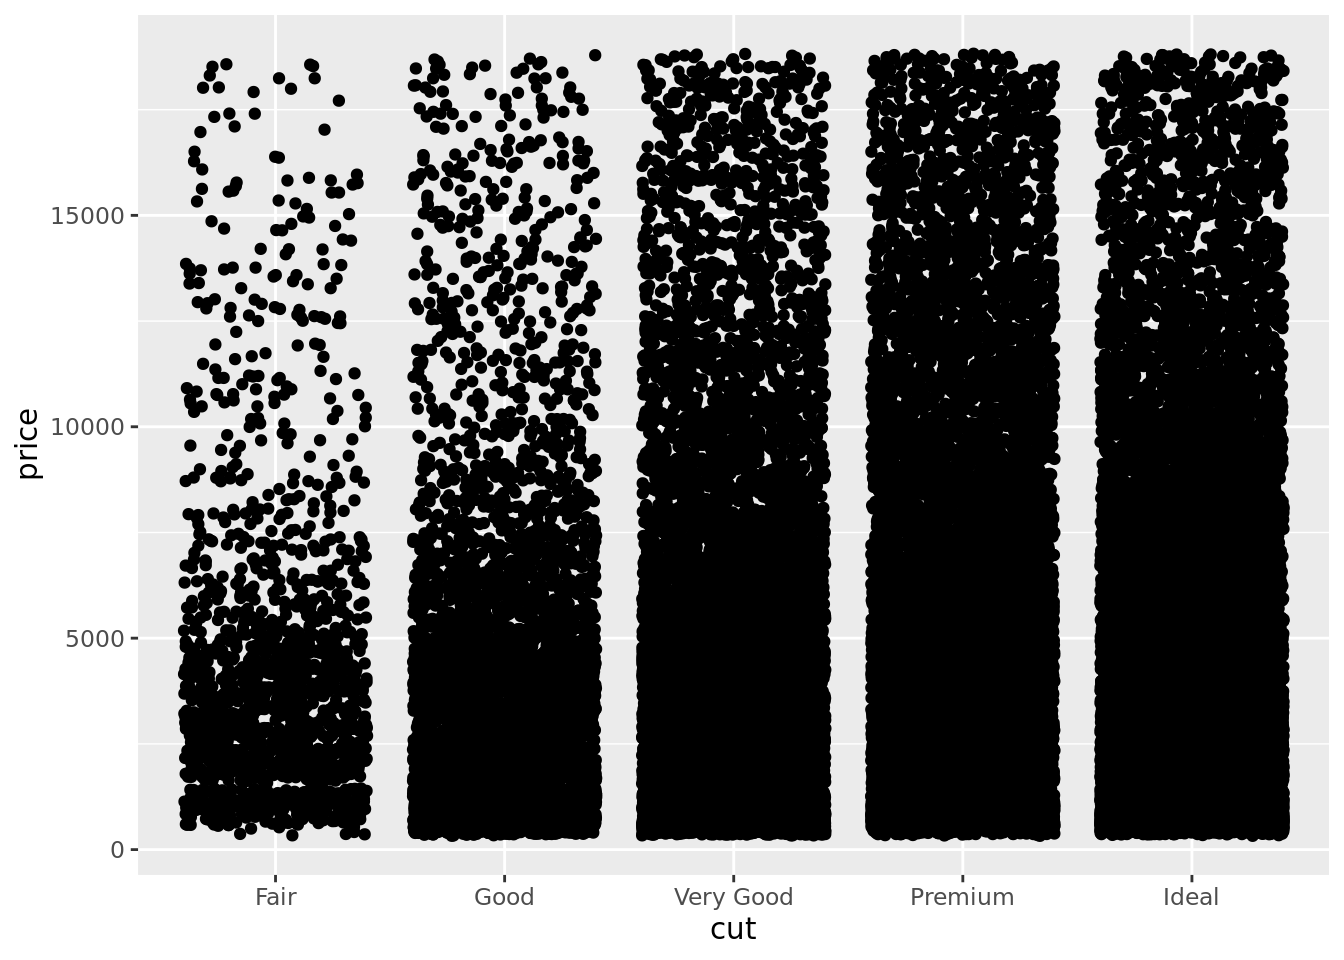
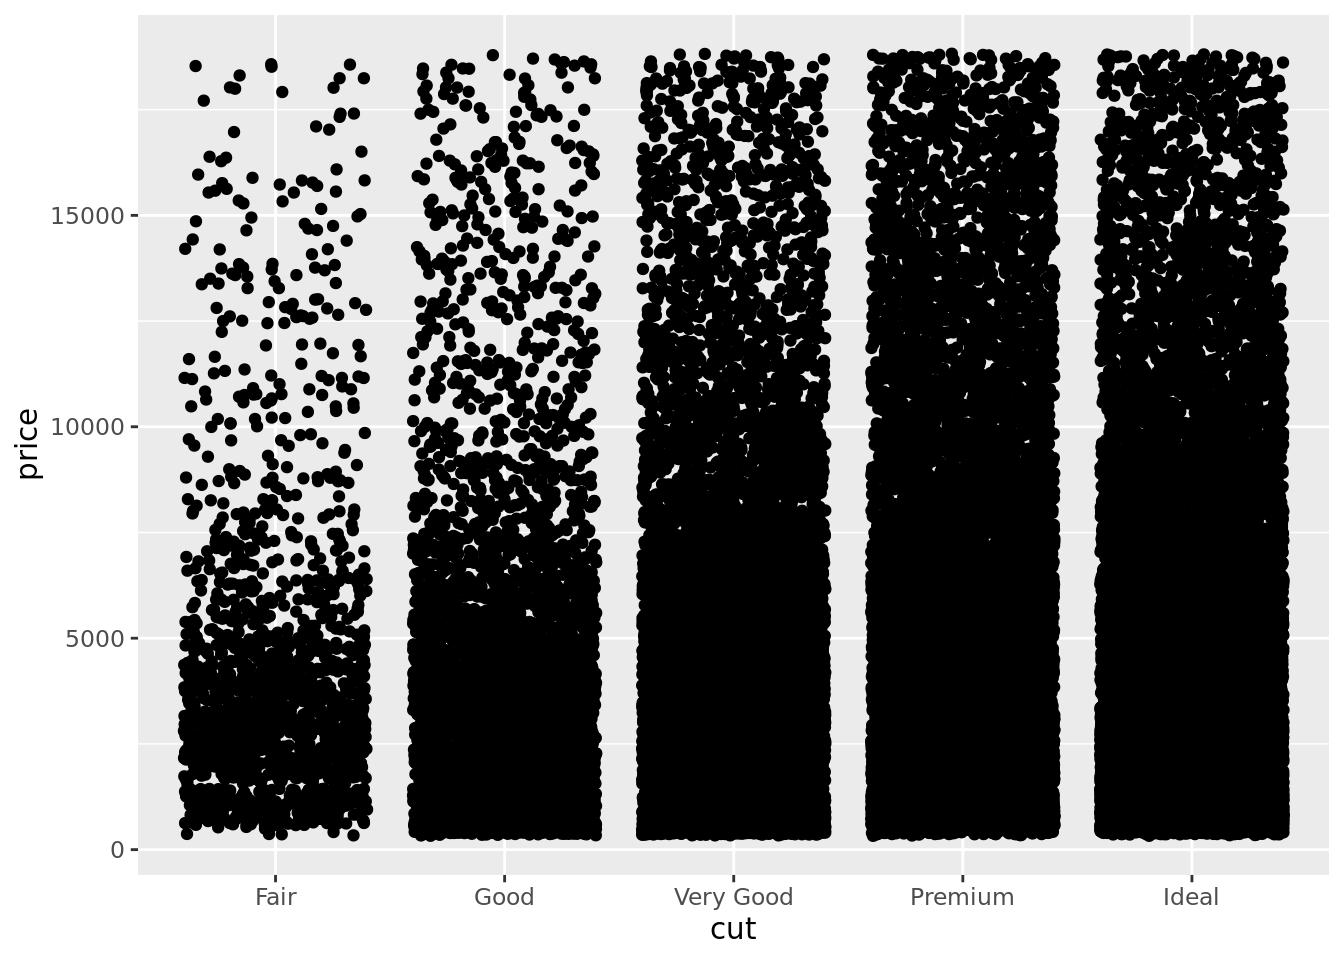
Built site for gh-pages

diff --git a/visualize/10-eda/05-covariation.html b/visualize/10-eda/05-covariation.html
@@ -328,6 +328,13 @@ pre > code.sourceCode > span > a:first-child::before { text-decoration: underlin
   <li><a href="#question-1-1" id="toc-question-1-1" class="nav-link" data-scroll-target="#question-1-1">Question 1</a></li>
   <li><a href="#question-2-1" id="toc-question-2-1" class="nav-link" data-scroll-target="#question-2-1">Question 2</a></li>
   <li><a href="#question-3-1" id="toc-question-3-1" class="nav-link" data-scroll-target="#question-3-1">Question 3</a></li>
+  <li><a href="#two-numerical-variables" id="toc-two-numerical-variables" class="nav-link" data-scroll-target="#two-numerical-variables">10.5.3 Two numerical Variables</a></li>
+  <li><a href="#question-1-2" id="toc-question-1-2" class="nav-link" data-scroll-target="#question-1-2">Question 1</a></li>
+  <li><a href="#question-2-2" id="toc-question-2-2" class="nav-link" data-scroll-target="#question-2-2">Question 2</a></li>
+  <li><a href="#question-3-2" id="toc-question-3-2" class="nav-link" data-scroll-target="#question-3-2">Question 3</a></li>
+  <li><a href="#question-4-1" id="toc-question-4-1" class="nav-link" data-scroll-target="#question-4-1">Question 4</a></li>
+  <li><a href="#question-5-1" id="toc-question-5-1" class="nav-link" data-scroll-target="#question-5-1">Question 5</a></li>
+  <li><a href="#question-6-1" id="toc-question-6-1" class="nav-link" data-scroll-target="#question-6-1">Question 6</a></li>
   </ul>
 </nav>
     </div>
@@ -804,6 +811,272 @@ pre > code.sourceCode > span > a:first-child::before { text-decoration: underlin
 </div>
 </div>
 </div>
+</section>
+</div>
+</div>
+</div>
+</section>
+<section id="two-numerical-variables" class="level2">
+<h2 class="anchored" data-anchor-id="two-numerical-variables">10.5.3 Two numerical Variables</h2>
+<!-- Next Question -->
+</section>
+<section id="question-1-2" class="level2">
+<h2 class="anchored" data-anchor-id="question-1-2">Question 1</h2>
+<div class="callout callout-style-default callout-note no-icon callout-titled" title="Note">
+<div class="callout-header d-flex align-content-center" data-bs-toggle="collapse" data-bs-target=".callout-10-contents" aria-controls="callout-10" aria-expanded="true" aria-label="Toggle callout">
+<div class="callout-icon-container">
+<i class="callout-icon no-icon"></i>
+</div>
+<div class="callout-title-container flex-fill">
+<span class="screen-reader-only">Note</span>Note
+</div>
+<div class="callout-btn-toggle d-inline-block border-0 py-1 ps-1 pe-0 float-end"><i class="callout-toggle"></i></div>
+</div>
+<div id="callout-10" class="callout-10-contents callout-collapse collapse show">
+<div class="callout-body-container callout-body">
+<section id="the-problem-9" class="level3">
+<h3 class="anchored" data-anchor-id="the-problem-9">The Problem</h3>
+<p>Instead of summarizing the conditional distribution with a boxplot, you could use a frequency polygon. What do you need to consider when using <code>cut_width()</code> vs <code>cut_number()</code>? How does that impact a visualization of the 2d distribution of <code>carat</code> and <code>price</code>?</p>
+</section>
+<section id="the-solution-9" class="level3">
+<h3 class="anchored" data-anchor-id="the-solution-9">The Solution</h3>
+<p>When using <code>cut_width()</code>, you need to consider what bin lengths while in <code>cut_number()</code> you need to consider the number of bins. Depending on the number of bins or the bin width, the chart may not provide very much information or becomes difficult to interpret due to visual clutter.</p>
+</section>
+</div>
+</div>
+</div>
+<!-- Next Question -->
+</section>
+<section id="question-2-2" class="level2">
+<h2 class="anchored" data-anchor-id="question-2-2">Question 2</h2>
+<div class="callout callout-style-default callout-note no-icon callout-titled" title="Note">
+<div class="callout-header d-flex align-content-center" data-bs-toggle="collapse" data-bs-target=".callout-11-contents" aria-controls="callout-11" aria-expanded="true" aria-label="Toggle callout">
+<div class="callout-icon-container">
+<i class="callout-icon no-icon"></i>
+</div>
+<div class="callout-title-container flex-fill">
+<span class="screen-reader-only">Note</span>Note
+</div>
+<div class="callout-btn-toggle d-inline-block border-0 py-1 ps-1 pe-0 float-end"><i class="callout-toggle"></i></div>
+</div>
+<div id="callout-11" class="callout-11-contents callout-collapse collapse show">
+<div class="callout-body-container callout-body">
+<section id="the-problem-10" class="level3">
+<h3 class="anchored" data-anchor-id="the-problem-10">The Problem</h3>
+<p>Visualize the distribution of <code>carat</code>, partitioned by <code>price</code>.</p>
+</section>
+<section id="the-solution-10" class="level3">
+<h3 class="anchored" data-anchor-id="the-solution-10">The Solution</h3>
+<div class="cell">
+<div class="code-copy-outer-scaffold"><div class="sourceCode cell-code" id="cb20"><pre class="sourceCode r code-with-copy"><code class="sourceCode r"><span id="cb20-1"><a href="#cb20-1" aria-hidden="true" tabindex="-1"></a><span class="co"># Dataset used in this section</span></span>
+<span id="cb20-2"><a href="#cb20-2" aria-hidden="true" tabindex="-1"></a>smaller <span class="ot">&lt;-</span> diamonds <span class="sc">|&gt;</span> </span>
+<span id="cb20-3"><a href="#cb20-3" aria-hidden="true" tabindex="-1"></a>  <span class="fu">filter</span>(carat <span class="sc">&lt;</span> <span class="dv">3</span>)</span>
+<span id="cb20-4"><a href="#cb20-4" aria-hidden="true" tabindex="-1"></a></span>
+<span id="cb20-5"><a href="#cb20-5" aria-hidden="true" tabindex="-1"></a><span class="co"># Plot using cut_number</span></span>
+<span id="cb20-6"><a href="#cb20-6" aria-hidden="true" tabindex="-1"></a>smaller <span class="sc">|&gt;</span></span>
+<span id="cb20-7"><a href="#cb20-7" aria-hidden="true" tabindex="-1"></a>  <span class="fu">ggplot</span>(<span class="fu">aes</span>(<span class="at">x =</span> carat)) <span class="sc">+</span></span>
+<span id="cb20-8"><a href="#cb20-8" aria-hidden="true" tabindex="-1"></a>  <span class="fu">geom_freqpoly</span>(</span>
+<span id="cb20-9"><a href="#cb20-9" aria-hidden="true" tabindex="-1"></a>    <span class="fu">aes</span>(</span>
+<span id="cb20-10"><a href="#cb20-10" aria-hidden="true" tabindex="-1"></a>      <span class="at">group =</span> <span class="fu">cut_number</span>(price, <span class="dv">10</span>), </span>
+<span id="cb20-11"><a href="#cb20-11" aria-hidden="true" tabindex="-1"></a>      <span class="at">color =</span> <span class="fu">cut_number</span>(price, <span class="dv">10</span>)</span>
+<span id="cb20-12"><a href="#cb20-12" aria-hidden="true" tabindex="-1"></a>      )</span>
+<span id="cb20-13"><a href="#cb20-13" aria-hidden="true" tabindex="-1"></a>    )</span></code></pre></div><button title="Copy to Clipboard" class="code-copy-button"><i class="bi"></i></button></div>
+<div class="cell-output cell-output-stderr">
+<pre><code>`stat_bin()` using `bins = 30`. Pick better value `binwidth`.</code></pre>
+</div>
+<div class="cell-output-display">
+<div>
+<figure class="figure">
+<p><img src="05-covariation_files/figure-html/unnamed-chunk-12-1.png" class="img-fluid figure-img" width="672"></p>
+</figure>
+</div>
+</div>
+<div class="code-copy-outer-scaffold"><div class="sourceCode cell-code" id="cb22"><pre class="sourceCode r code-with-copy"><code class="sourceCode r"><span id="cb22-1"><a href="#cb22-1" aria-hidden="true" tabindex="-1"></a><span class="co"># Plot using cut_width</span></span>
+<span id="cb22-2"><a href="#cb22-2" aria-hidden="true" tabindex="-1"></a>smaller <span class="sc">|&gt;</span></span>
+<span id="cb22-3"><a href="#cb22-3" aria-hidden="true" tabindex="-1"></a>  <span class="fu">ggplot</span>(<span class="fu">aes</span>(<span class="at">x =</span> carat)) <span class="sc">+</span></span>
+<span id="cb22-4"><a href="#cb22-4" aria-hidden="true" tabindex="-1"></a>  <span class="fu">geom_freqpoly</span>(</span>
+<span id="cb22-5"><a href="#cb22-5" aria-hidden="true" tabindex="-1"></a>    <span class="fu">aes</span>(</span>
+<span id="cb22-6"><a href="#cb22-6" aria-hidden="true" tabindex="-1"></a>      <span class="at">group =</span> <span class="fu">cut_width</span>(price, <span class="dv">1000</span>), </span>
+<span id="cb22-7"><a href="#cb22-7" aria-hidden="true" tabindex="-1"></a>      <span class="at">color =</span> <span class="fu">cut_width</span>(price, <span class="dv">1000</span>)</span>
+<span id="cb22-8"><a href="#cb22-8" aria-hidden="true" tabindex="-1"></a>      ),</span>
+<span id="cb22-9"><a href="#cb22-9" aria-hidden="true" tabindex="-1"></a>      <span class="at">bins =</span> <span class="dv">30</span></span>
+<span id="cb22-10"><a href="#cb22-10" aria-hidden="true" tabindex="-1"></a>    )</span></code></pre></div><button title="Copy to Clipboard" class="code-copy-button"><i class="bi"></i></button></div>
+<div class="cell-output-display">
+<div>
+<figure class="figure">
+<p><img src="05-covariation_files/figure-html/unnamed-chunk-12-2.png" class="img-fluid figure-img" width="672"></p>
+</figure>
+</div>
+</div>
+</div>
+</section>
+</div>
+</div>
+</div>
+<!-- Next Question -->
+</section>
+<section id="question-3-2" class="level2">
+<h2 class="anchored" data-anchor-id="question-3-2">Question 3</h2>
+<div class="callout callout-style-default callout-note no-icon callout-titled" title="Note">
+<div class="callout-header d-flex align-content-center" data-bs-toggle="collapse" data-bs-target=".callout-12-contents" aria-controls="callout-12" aria-expanded="true" aria-label="Toggle callout">
+<div class="callout-icon-container">
+<i class="callout-icon no-icon"></i>
+</div>
+<div class="callout-title-container flex-fill">
+<span class="screen-reader-only">Note</span>Note
+</div>
+<div class="callout-btn-toggle d-inline-block border-0 py-1 ps-1 pe-0 float-end"><i class="callout-toggle"></i></div>
+</div>
+<div id="callout-12" class="callout-12-contents callout-collapse collapse show">
+<div class="callout-body-container callout-body">
+<section id="the-problem-11" class="level3">
+<h3 class="anchored" data-anchor-id="the-problem-11">The Problem</h3>
+<p>How does the price distribution of very large diamonds compare to small diamonds? Is it as you expect, or does it surprise you?</p>
+</section>
+<section id="the-solution-11" class="level3">
+<h3 class="anchored" data-anchor-id="the-solution-11">The Solution</h3>
+<div class="cell">
+<div class="code-copy-outer-scaffold"><div class="sourceCode cell-code" id="cb23"><pre class="sourceCode r code-with-copy"><code class="sourceCode r"><span id="cb23-1"><a href="#cb23-1" aria-hidden="true" tabindex="-1"></a>diamonds <span class="sc">|&gt;</span> </span>
+<span id="cb23-2"><a href="#cb23-2" aria-hidden="true" tabindex="-1"></a>  <span class="fu">ggplot</span>() <span class="sc">+</span></span>
+<span id="cb23-3"><a href="#cb23-3" aria-hidden="true" tabindex="-1"></a>  <span class="fu">geom_boxplot</span>(</span>
+<span id="cb23-4"><a href="#cb23-4" aria-hidden="true" tabindex="-1"></a>    <span class="fu">aes</span>(</span>
+<span id="cb23-5"><a href="#cb23-5" aria-hidden="true" tabindex="-1"></a>      <span class="at">x =</span> table,</span>
+<span id="cb23-6"><a href="#cb23-6" aria-hidden="true" tabindex="-1"></a>      <span class="at">y =</span> price, </span>
+<span id="cb23-7"><a href="#cb23-7" aria-hidden="true" tabindex="-1"></a>      <span class="at">group =</span> <span class="fu">cut_width</span>(table, <span class="dv">1</span>)</span>
+<span id="cb23-8"><a href="#cb23-8" aria-hidden="true" tabindex="-1"></a>      ),</span>
+<span id="cb23-9"><a href="#cb23-9" aria-hidden="true" tabindex="-1"></a>      <span class="at">orientation =</span> <span class="st">"x"</span></span>
+<span id="cb23-10"><a href="#cb23-10" aria-hidden="true" tabindex="-1"></a>    )</span></code></pre></div><button title="Copy to Clipboard" class="code-copy-button"><i class="bi"></i></button></div>
+<div class="cell-output-display">
+<div>
+<figure class="figure">
+<p><img src="05-covariation_files/figure-html/unnamed-chunk-13-1.png" class="img-fluid figure-img" width="672"></p>
+</figure>
+</div>
+</div>
+</div>
+<p>Using <code>table</code> as data representing the size of the diamond, the price of diamonds increase as <code>table</code> increase until around 60, where it slightly decreases. This is somewhat surprising, but there are likely factors other than size (like clarity) that have an effect on price.</p>
+</section>
+</div>
+</div>
+</div>
+<!-- Next Question -->
+</section>
+<section id="question-4-1" class="level2">
+<h2 class="anchored" data-anchor-id="question-4-1">Question 4</h2>
+<div class="callout callout-style-default callout-note no-icon callout-titled" title="Note">
+<div class="callout-header d-flex align-content-center" data-bs-toggle="collapse" data-bs-target=".callout-13-contents" aria-controls="callout-13" aria-expanded="true" aria-label="Toggle callout">
+<div class="callout-icon-container">
+<i class="callout-icon no-icon"></i>
+</div>
+<div class="callout-title-container flex-fill">
+<span class="screen-reader-only">Note</span>Note
+</div>
+<div class="callout-btn-toggle d-inline-block border-0 py-1 ps-1 pe-0 float-end"><i class="callout-toggle"></i></div>
+</div>
+<div id="callout-13" class="callout-13-contents callout-collapse collapse show">
+<div class="callout-body-container callout-body">
+<section id="the-problem-12" class="level3">
+<h3 class="anchored" data-anchor-id="the-problem-12">The Problem</h3>
+<p>Combine two of the techniques you’ve learned to visualize the combined distribution of cut, carat, and price.</p>
+</section>
+<section id="the-solution-12" class="level3">
+<h3 class="anchored" data-anchor-id="the-solution-12">The Solution</h3>
+<p>To show these three attributes, I will use both facets and cuts.</p>
+<div class="cell">
+<div class="code-copy-outer-scaffold"><div class="sourceCode cell-code" id="cb24"><pre class="sourceCode r code-with-copy"><code class="sourceCode r"><span id="cb24-1"><a href="#cb24-1" aria-hidden="true" tabindex="-1"></a>diamonds <span class="sc">|&gt;</span> </span>
+<span id="cb24-2"><a href="#cb24-2" aria-hidden="true" tabindex="-1"></a>  <span class="fu">ggplot</span>(<span class="fu">aes</span>(<span class="at">x =</span> carat, <span class="at">y =</span> price)) <span class="sc">+</span></span>
+<span id="cb24-3"><a href="#cb24-3" aria-hidden="true" tabindex="-1"></a>  <span class="fu">geom_boxplot</span>(</span>
+<span id="cb24-4"><a href="#cb24-4" aria-hidden="true" tabindex="-1"></a>    <span class="fu">aes</span>(<span class="at">group =</span> <span class="fu">cut_number</span>(price, <span class="dv">10</span>)),</span>
+<span id="cb24-5"><a href="#cb24-5" aria-hidden="true" tabindex="-1"></a>    <span class="at">orientation =</span> <span class="st">"x"</span></span>
+<span id="cb24-6"><a href="#cb24-6" aria-hidden="true" tabindex="-1"></a>    ) <span class="sc">+</span></span>
+<span id="cb24-7"><a href="#cb24-7" aria-hidden="true" tabindex="-1"></a>  <span class="fu">facet_wrap</span>(<span class="sc">~</span>cut, <span class="at">nrow =</span> <span class="dv">1</span>)</span></code></pre></div><button title="Copy to Clipboard" class="code-copy-button"><i class="bi"></i></button></div>
+<div class="cell-output-display">
+<div>
+<figure class="figure">
+<p><img src="05-covariation_files/figure-html/unnamed-chunk-14-1.png" class="img-fluid figure-img" width="672"></p>
+</figure>
+</div>
+</div>
+</div>
+</section>
+</div>
+</div>
+</div>
+<!-- Next Question -->
+</section>
+<section id="question-5-1" class="level2">
+<h2 class="anchored" data-anchor-id="question-5-1">Question 5</h2>
+<div class="callout callout-style-default callout-note no-icon callout-titled" title="Note">
+<div class="callout-header d-flex align-content-center" data-bs-toggle="collapse" data-bs-target=".callout-14-contents" aria-controls="callout-14" aria-expanded="true" aria-label="Toggle callout">
+<div class="callout-icon-container">
+<i class="callout-icon no-icon"></i>
+</div>
+<div class="callout-title-container flex-fill">
+<span class="screen-reader-only">Note</span>Note
+</div>
+<div class="callout-btn-toggle d-inline-block border-0 py-1 ps-1 pe-0 float-end"><i class="callout-toggle"></i></div>
+</div>
+<div id="callout-14" class="callout-14-contents callout-collapse collapse show">
+<div class="callout-body-container callout-body">
+<section id="the-problem-13" class="level3">
+<h3 class="anchored" data-anchor-id="the-problem-13">The Problem</h3>
+<p>Two dimensional plots reveal outliers that are not visible in one dimensional plots. For example, some points in the following plot have an unusual combination of <code>x</code> and <code>y</code> values, which makes the points outliers even though their <code>x</code> and <code>y</code> values appear normal when examined separately. Why is a scatterplot a better display than a binned plot for this case?</p>
+<div class="cell">
+<div class="code-copy-outer-scaffold"><div class="sourceCode cell-code" id="cb25"><pre class="sourceCode r code-with-copy"><code class="sourceCode r"><span id="cb25-1"><a href="#cb25-1" aria-hidden="true" tabindex="-1"></a>diamonds <span class="sc">|&gt;</span> </span>
+<span id="cb25-2"><a href="#cb25-2" aria-hidden="true" tabindex="-1"></a>  <span class="fu">filter</span>(x <span class="sc">&gt;=</span> <span class="dv">4</span>) <span class="sc">|&gt;</span> </span>
+<span id="cb25-3"><a href="#cb25-3" aria-hidden="true" tabindex="-1"></a>  <span class="fu">ggplot</span>(<span class="fu">aes</span>(<span class="at">x =</span> x, <span class="at">y =</span> y)) <span class="sc">+</span></span>
+<span id="cb25-4"><a href="#cb25-4" aria-hidden="true" tabindex="-1"></a>  <span class="fu">geom_point</span>() <span class="sc">+</span></span>
+<span id="cb25-5"><a href="#cb25-5" aria-hidden="true" tabindex="-1"></a>  <span class="fu">coord_cartesian</span>(<span class="at">xlim =</span> <span class="fu">c</span>(<span class="dv">4</span>, <span class="dv">11</span>), <span class="at">ylim =</span> <span class="fu">c</span>(<span class="dv">4</span>, <span class="dv">11</span>))</span></code></pre></div><button title="Copy to Clipboard" class="code-copy-button"><i class="bi"></i></button></div>
+<div class="cell-output-display">
+<div>
+<figure class="figure">
+<p><img src="05-covariation_files/figure-html/unnamed-chunk-15-1.png" class="img-fluid figure-img" width="672"></p>
+</figure>
+</div>
+</div>
+</div>
+</section>
+<section id="the-solution-13" class="level3">
+<h3 class="anchored" data-anchor-id="the-solution-13">The Solution</h3>
+<p>A scatterplot is able to display ususal pairs, while a binned plot is unable to since it is a 1D plot. Most outliers in the plot would fit into a bin with many observations that are not outliers.</p>
+</section>
+</div>
+</div>
+</div>
+<!-- Next Question -->
+</section>
+<section id="question-6-1" class="level2">
+<h2 class="anchored" data-anchor-id="question-6-1">Question 6</h2>
+<div class="callout callout-style-default callout-note no-icon callout-titled" title="Note">
+<div class="callout-header d-flex align-content-center" data-bs-toggle="collapse" data-bs-target=".callout-15-contents" aria-controls="callout-15" aria-expanded="true" aria-label="Toggle callout">
+<div class="callout-icon-container">
+<i class="callout-icon no-icon"></i>
+</div>
+<div class="callout-title-container flex-fill">
+<span class="screen-reader-only">Note</span>Note
+</div>
+<div class="callout-btn-toggle d-inline-block border-0 py-1 ps-1 pe-0 float-end"><i class="callout-toggle"></i></div>
+</div>
+<div id="callout-15" class="callout-15-contents callout-collapse collapse show">
+<div class="callout-body-container callout-body">
+<section id="the-problem-14" class="level3">
+<h3 class="anchored" data-anchor-id="the-problem-14">The Problem</h3>
+<p>Instead of creating boxes of equal width with <code>cut_width()</code>, we could create boxes that contain roughly equal number of points with <code>cut_number()</code>. What are the advantages and disadvantages of this approach?</p>
+<div class="cell">
+<div class="code-copy-outer-scaffold"><div class="sourceCode cell-code" id="cb26"><pre class="sourceCode r code-with-copy"><code class="sourceCode r"><span id="cb26-1"><a href="#cb26-1" aria-hidden="true" tabindex="-1"></a><span class="fu">ggplot</span>(smaller, <span class="fu">aes</span>(<span class="at">x =</span> carat, <span class="at">y =</span> price)) <span class="sc">+</span> </span>
+<span id="cb26-2"><a href="#cb26-2" aria-hidden="true" tabindex="-1"></a>  <span class="fu">geom_boxplot</span>(<span class="fu">aes</span>(<span class="at">group =</span> <span class="fu">cut_number</span>(carat, <span class="dv">20</span>)), <span class="at">orientation =</span> <span class="st">"x"</span>)</span></code></pre></div><button title="Copy to Clipboard" class="code-copy-button"><i class="bi"></i></button></div>
+<div class="cell-output-display">
+<div>
+<figure class="figure">
+<p><img src="05-covariation_files/figure-html/unnamed-chunk-16-1.png" class="img-fluid figure-img" width="672"></p>
+</figure>
+</div>
+</div>
+</div>
+</section>
+<section id="the-solution-14" class="level3">
+<h3 class="anchored" data-anchor-id="the-solution-14">The Solution</h3>
+<p>Using <code>cut_number()</code> is faster than using <code>cut_width()</code>, since each dataset will have a differing scale, which requires you to first determine what lengths are appropriate. <code>cut_number()</code> will do the calculations for you.The main disadvantage is that the bins are harder to compare to one another, since with differing lengths inferences done on them are worse compared to even sized bins.</p>
 </section>
 </div>
 </div>
